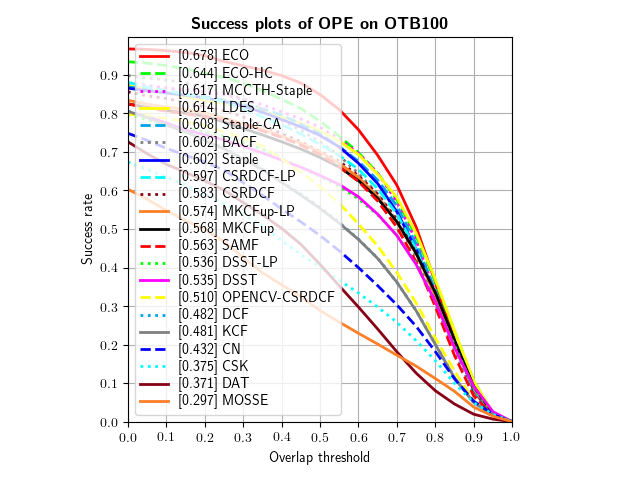
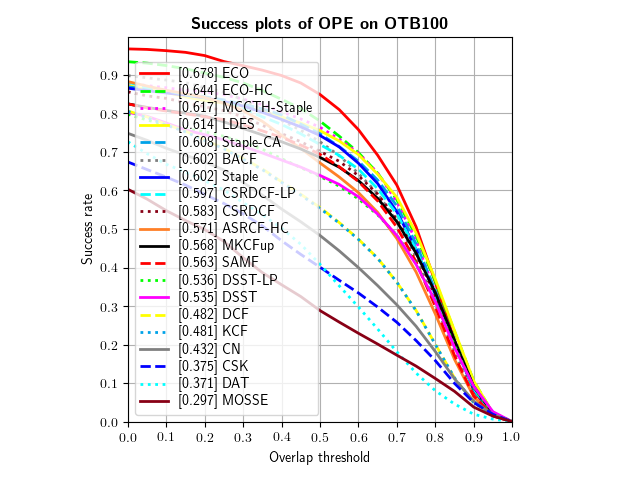
update asrcf result

diff --git a/eval/eval_OTB.py b/eval/eval_OTB.py
@@ -10,7 +10,7 @@ from lib.pysot.visualization import draw_success_precision
 
 if __name__ == '__main__':
     parser = argparse.ArgumentParser(description='VOT Evaluation')
-    parser.add_argument('--dataset', type=str, default='OTB100',help='dataset name')
+    parser.add_argument('--dataset', type=str, default='OTB50',help='dataset name')
     parser.add_argument('--result_dir', type=str, default='test/OTB100',help='tracker result root')
     parser.add_argument('--tracker_prefix', type=str,default='test', help='tracker prefix')
     parser.add_argument('--show_video_level', action='store_true')
@@ -22,7 +22,7 @@ if __name__ == '__main__':
     tracker_dir = args.result_dir
     trackers = glob.glob(join(tracker_dir, args.tracker_prefix+'*'))
     trackers = [t.split('/')[-1] for t in trackers]
-    trackers=['ASRCF-HC','MCCTH-Staple','MKCFup-LP','MKCFup','CSRDCF-LP','DSST-LP','LDES','SAMF','Staple-CA','OPENCV-CSRDCF','DCF','MOSSE','KCF','CSK','Staple','DSST','CN','DAT','ECO-HC','ECO','BACF','CSRDCF']
+    trackers=['ASRCF-HC','MCCTH-Staple','MKCFup','CSRDCF-LP','DSST-LP','LDES','SAMF','Staple-CA','DCF','MOSSE','KCF','CSK','Staple','DSST','CN','DAT','ECO-HC','ECO','BACF','CSRDCF']
     print(trackers)
     assert len(trackers) > 0
     args.num = min(args.num, len(trackers))

diff --git a/cftracker/asrcf_hc.py b/cftracker/asrcf_hc.py
@@ -260,6 +260,7 @@ class ASRCFHC(BaseCF):
             l_f = l_f + (g_f-h_f)
             mu = min(beta * mu, mumax)
             i += 1
+        self.reg_window=reg_window
 
         return h_f
 
@@ -309,7 +310,7 @@ class ASRCFHC(BaseCF):
                         np.abs(wrs / reg_scale[1]) ** 2 + \
                         np.abs(wcs / reg_scale[0]) ** 2) + reg_window_min
             return reg_window.T
-
+        target_sz=sz
         target_window=create_reg(target_sz, reg_window_min, reg_window_edge)
         center=(sz[0]//2,sz[1]//2)
         reg_window = np.ones((sz[1], sz[0])) * np.max(target_window)

diff --git a/cftracker/config/asrcfhc_config.py b/cftracker/config/asrcfhc_config.py
@@ -10,12 +10,12 @@ class ASRCFHCConfig:
     newton_iterations=5
     number_of_scales=1
     scale_step=1.01
-    admm_iterations=2
+    admm_iterations=1
     admm_lambda1=0.2
-    admm_lambda2=1e-7
+    admm_lambda2=1e-3
 
     reg_window_min = 1e-4# the minimum value of the regularization window
-    reg_window_edge=1e-2
+    reg_window_edge=1e-4
 
     class ScaleConfig:
         learning_rate_scale = 0.015

diff --git a/readme.md b/readme.md
@@ -18,6 +18,7 @@ I use [pysot-toolkit](https://github.com/StrangerZhang/pysot-toolkit) to eval th
 - [x] [MKCFup/MKCFup-LP](http://openaccess.thecvf.com/content_cvpr_2018/papers/Tang_High-Speed_Tracking_With_CVPR_2018_paper.pdf)    
 - [x] [MCCTH](http://openaccess.thecvf.com/content_cvpr_2018/papers/Wang_Multi-Cue_Correlation_Filters_CVPR_2018_paper.pdf)  
 - [x] [STRCF](http://openaccess.thecvf.com/content_cvpr_2018/papers/Li_Learning_Spatial-Temporal_Regularized_CVPR_2018_paper.pdf)  
+- [x] [ASRCF-HC](Visual Tracking via Adaptive Spatially-Regularized Correlation Filters)CVPR2019 oral I implemented it HC version
 **Trackers from other repos**
 - [x] [ECO/ECO-HC](https://arxiv.org/pdf/1611.09224v1.pdf) from [pyECO](https://github.com/StrangerZhang/pyECO)
 - [x] [OPENCV-CSRDCF](https://github.com/opencv/opencv_contrib)(Note that trackers implemented in opencv get lower score because they will return a success flag and if this flag is False, the bbox will be set to (0,0,0,0))
@@ -88,6 +89,7 @@ VOT2018
 |      ECO      |  0.485   |   0.403    |    86.0     | 0.224 |
 |    CSRDCF     |  0.492   |   0.501    |    107.0    | 0.210 |
 |    ECO-HC     |  0.500   |   0.473    |    101.0    | 0.207 |
+|   ASRCF-HC    |  0.510   |   0.553    |    118.0    | 0.200 |
 |   CSRDCF-LP   |  0.503   |   0.553    |    118.0    | 0.199 |
 |    Staple     |  0.524   |   0.665    |    142.0    | 0.179 |
 |     LDES      |  0.528   |   0.684    |    146.0    | 0.175 |
@@ -95,7 +97,7 @@ VOT2018
 | OPENCV-CSRDCF |  0.486   |   0.651    |    139.0    | 0.170 |
 |     BACF      |  0.511   |   0.674    |    144.0    | 0.169 |
 |      DAT      |  0.477   |   0.777    |    166.0    | 0.158 |
-|     STRCF     |  0.483   |   0.679    |    145.0    | 0.152 |
+|     STRCF     |  0.495   |   0.833    |    178.0    | 0.141 |
 |      CN       |  0.439   |   1.100    |    235.0    | 0.112 |
 |     SAMF      |  0.499   |   1.147    |    245.0    | 0.110 |
 |     DSST      |  0.492   |   1.222    |    261.0    | 0.107 |
@@ -117,10 +119,11 @@ VOT2016
 |    CSRDCF     |  0.542   |   0.359    |    77.0     | 0.273 |
 |     LDES      |  0.577   |   0.419    |    90.0     | 0.272 |
 |   CSRDCF-LP   |  0.548   |   0.354    |    76.0     | 0.272 |
+|   ASRCF-HC    |  0.527   |   0.401    |    86.0     | 0.267 |
 |     BACF      |  0.521   |   0.405    |    87.0     | 0.252 |
 | OPENCV-CSRDCF |  0.521   |   0.438    |    94.0     | 0.239 |
-|     STRCF     |  0.520   |   0.415    |    89.0     | 0.239 |
 |      DAT      |  0.474   |   0.503    |    108.0    | 0.232 |
+|     STRCF     |  0.529   |   0.475    |    102.0    | 0.228 |
 |     SAMF      |  0.544   |   0.639    |    137.0    | 0.193 |
 |    DSST-LP    |  0.543   |   0.727    |    156.0    | 0.180 |
 |      CN       |  0.468   |   0.653    |    140.0    | 0.178 |
